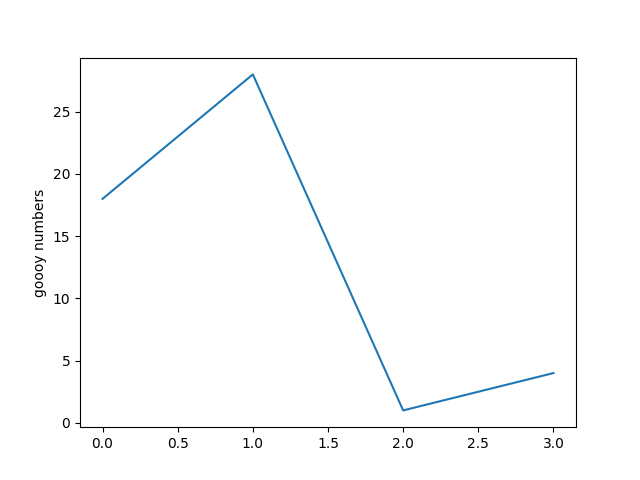
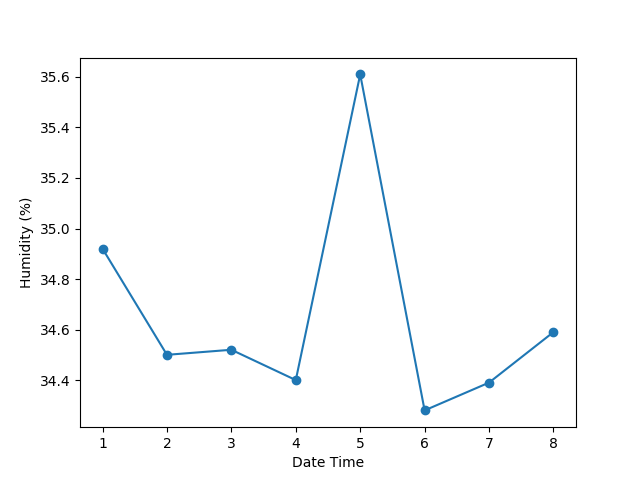
Code fixing

diff --git a/part_1/runInterface.py b/part_1/runInterface.py
@@ -2,59 +2,140 @@
 import os
 import sqlite3 as lite
 from flask import Flask, request, render_template, send_file
+import base64, io
+import datetime as dt
 import matplotlib
 # dont use windows backend by default
 matplotlib.use('Agg')
-import base64, io
-import datetime as dt
 import matplotlib.pyplot as plt
 import matplotlib.dates as mdates
+import numpy as np
 
+
+
+# using flask
 app = Flask(__name__, template_folder='views')
+
+# define database path
 dbname = '/home/pi/SenseARaspberryPi/db/database.bieber'
-@app.route("/")
-def plotTemp():
+
+# array objects for ploting the graph later
+xdates = []
+ytemps = []
+yhumids = []
+
+# function to fetch all temp data from database table
+def fetchTempData():
+    # setting up database
     conn=lite.connect(dbname)
-    xdates =[]
-    ytemps =[]
     curs=conn.cursor()
+
+    # fetch the data
     curs.execute("SELECT temp FROM SenseHat_data")
-    tempData_ = curs.fetchall()
-    for d in tempData_:
-        x =  str(d)
+    temps = curs.fetchall()
+
+    # assign data to related array & string formatting
+    for t in temps:
+        x =  str(t)
         temp = x[1:len(x)-2]
         print(temp)
-        ytemps.append(temp)
+        ytemps.append(float(temp))
+    
+    # close the connection
+    conn.close()
+
+# function to fetch all humidity data from database table
+def fetchHumidData():
+    # setting up database
+    conn=lite.connect(dbname)
+    curs=conn.cursor()
+
+    # fetch the data
+    curs.execute("SELECT humidity FROM SenseHat_data")
+    humids = curs.fetchall()
+
+    yhumids[:]
+    # assign data to related array & string formatting
+    for h in humids:
+        x =  str(h)
+        humid = x[1:len(x)-2]
+        print(humid)
+        yhumids.append(float(humid))
+    
+    # close the connection
+    conn.close()
+
+# function to fetch all time data from database table
+def fetchTimeData():
+    # setting up database
+    conn=lite.connect(dbname)
+    curs=conn.cursor()
+
+    # fetch the data
     curs.execute("SELECT timestamp FROM SenseHat_data")
     dates = curs.fetchall()
+
+    # assign data to related array
     for d in dates:
         x =  str(d)
         date = x[2:len(x)-3]
-        xdates.append(date)
         print(date)
-    print(xdates)
-    x = [dt.datetime.strptime(y,'%m/%d/%Y %H:%M:%S').date() for y in xdates]
-
-    plt.figure()
-    plt.gca().xaxis.set_major_formatter(mdates.DateFormatter('%m/%d/%Y %H:%M:%S'))
-    plt.gca().xaxis.set_major_locator(mdates.DayLocator())
-
-    plt.grid()
-    plt.plot(x,ytemps,marker='o')
-    plt.gcf().autofmt_xdate()
-    plt.ylabel('Temperature (C)')
-    plt.xlabel('Date')
-    plt.savefig('static/temp.png')
+        xdates.append(date)
+    
+    # close the connection
     conn.close()
+
+# define route of showing temperature graph
+@app.route("/")
+def plotTemp():
+    # fetch latest data
+    fetchTempData()
+    fetchTimeData()
+    fetchHumidData()
+
+    #x = [dt.datetime.strptime(y,'%d/%m/%y %H:%M:%S').date() for y in xdates]
+    #print(x)
+    plt.clf()
+    plt.cla()
+    plt.close()
+    plt.figure(figsize=(20,10))
+    #x = np.array([dt.datetime(i[], i[3:4], i[0:1], i,0) for i in xdates])
+    x = np.array([dt.datetime(2013, 9, 28, i) for i in  range(len(xdates))])
+    #plt.gca().xaxis.set_major_formatter(mdates.DateFormatter('%d/%M/%Y %H:%M:%S'))
+    #plt.gca().xaxis.set_major_locator(mdates.MinuteLocator())
+
+    #x =[1,2,3,4,5,6,7,8]
+    print(len(x))
+    print(x)
+    y = [2,5,3,6,2,1,6,2]
+    z = [4,2,1,5,6,2,1,3]
+    plt.grid()
+    plt.plot(x,ytemps,'r-o',label = "temperature(C)")
+    #start, end = plt.gca().get_xlim()
+    #plt.gca().xaxis.set_ticks(np.arange(start, end, 5))
+    #plt.plot( x,yhumids,'g-',label ="humidity(%)")
+    #plt.gcf().autofmt_xdate()
+    plt.legend(loc='upper right')
+    plt.ylabel('Value')
+    plt.xlabel('Date Time')
+    plt.savefig('static/temp.png')
+    
     return render_template('temp.html', temp = "static/temp.png")
 
-@app.route("/humid")
-def plotHumid():
-    plt.figure()
-    plt.plot([18,28,1,4])
-    plt.ylabel('goooy numbers')
-    plt.savefig('static/humid.png')
-    return render_template('humid.html', humid = "static/humid.png")
+# define route of showing humidity graph
+# @app.route("/humid")
+# def plotHumid():
+#     # fetch latest data
+#     fetchTempData()
+#     fetchHumidData()
+#     z =[1,2,3,4,5,6,7,8]
+#     plt.figure()
+#     plt.plot(z,yhumids,marker='o')
+#     #plt.gcf().autofmt_xdate()
+#     plt.ylabel('Humidity (%)')
+#     plt.xlabel('Date Time')
+#     plt.savefig('static/humid.png')
+#     return render_template('humid.html', humid = "static/humid.png")
     
 
 host = os.popen('hostname -I').read()

diff --git a/part_2/partTwo.py b/part_2/partTwo.py
@@ -24,20 +24,16 @@ def get_cpu_temp():
   t = float(res.replace("temp=","").replace("'C\n",""))
   return(t)
 
-#fetch cpu temp
-cpu_temp = get_cpu_temp()
-
-#calculating the real temp
-temp = senor_temp - (cpu_temp -senor_temp)/2
-
-#for debugging
-print(temp)
-body = "Hey "+ACCESS_TOKENS[0][1]+", time to get your jacket!!! It's "+str(round(temp,1))+"*C outside."
-print(body)
-
 #function to decide whether broadcast the message or not
 def pushBullet_broadcaster():
-    if temp <30:
+    #fetch cpu temp
+    cpu_temp = get_cpu_temp()
+
+    #calculating the *real* temp
+    temp = senor_temp - (cpu_temp -senor_temp)/2
+
+    # send message when temperature is below 25
+    if temp <25:
         for x in ACCESS_TOKENS:
             body = "Hey "+x[1]+", time to get your jacket!!! It's "+str(round(temp,1))+"*C outside."
             data_send = {"type": "note", "title": Name_OF_PI, "body": body}

diff --git a/part_3/bluetoothDetector.py b/part_3/bluetoothDetector.py
@@ -27,7 +27,7 @@ def displayData():
 
     # fetch all data from table
     for x in curs.execute("SELECT * FROM ADDRESS_data"):
-        #extracting mac_address object
+        # extracting mac_address object
         s = str(x)
 
         # string formatting
@@ -35,9 +35,11 @@ def displayData():
         name = a[2:len(a)-1]
         device_name = b[2:len(b)-1]
         mac_address = c[2:len(c)-2]
+
+        # print the formatted string
         print('{:20}{:20}{:20}'.format(name,device_name,mac_address))
 
-    #close connection
+    # close connection
     conn.close()
 
 # function to check total row of the database table

diff --git a/part_1/partOne.py b/part_1/partOne.py
@@ -36,7 +36,7 @@ def getSenseHatData():
     if temp_calibrated is not None and humidity is not None:
         temp_calibrated = round(temp_calibrated, 2)
         humidity = round(humidity, 2)
-        time = datetime.now().strftime("%D %H:%M:%S")
+        time = datetime.now().strftime("%d/%m/%y %H:%M:%S")
         logData (temp_calibrated, humidity, time)
         print("New data added to database table @"+time)
 
